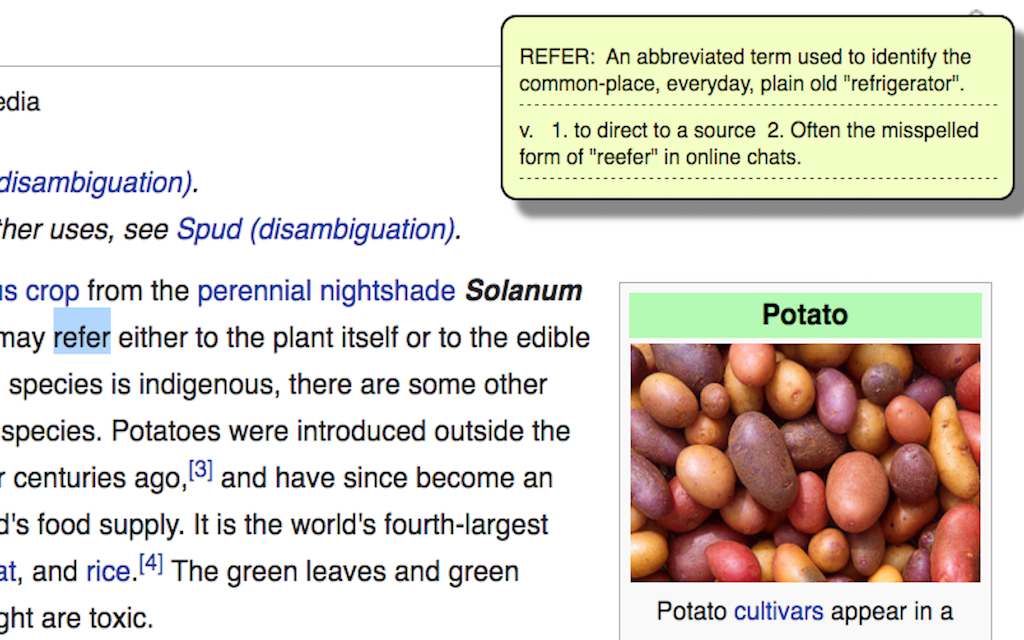
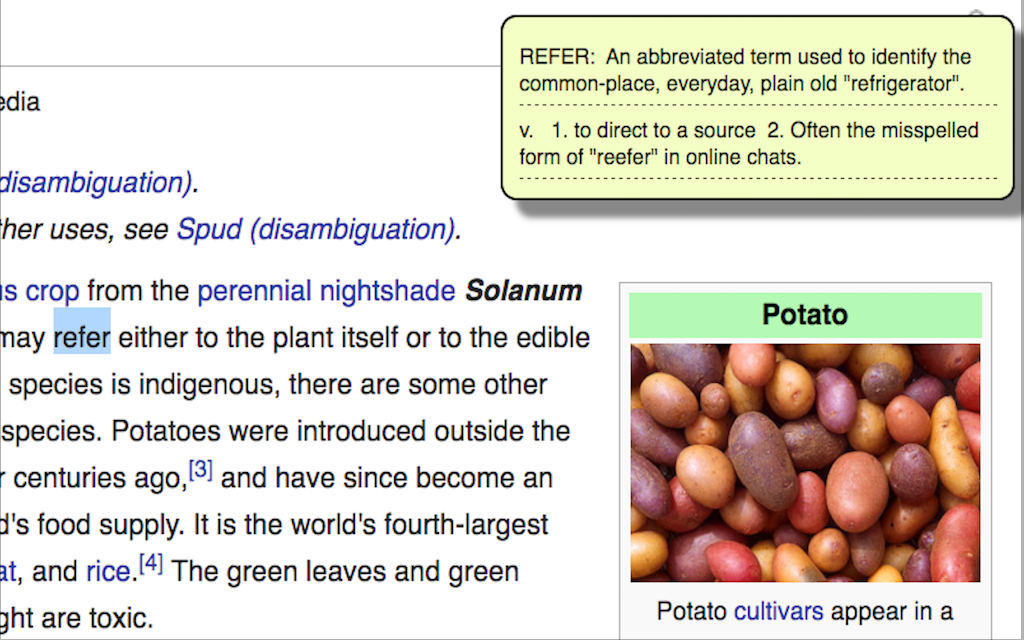
add border to demo photo

Changed region(s): [[0.9688, 0.9688, 1.0, 1.0], [0.375, 0.4375, 0.4062, 0.4688]]

diff --git a/README.md b/README.md
@@ -19,4 +19,4 @@ To look up a word, simply double click on any word on the web page while holding
 
 - Gives user definitions of any word they choose while browsing on internet!
 
-![sample](docs/wireframes/demo.png)
+![sample](docs/wireframes/demo_2.png)
